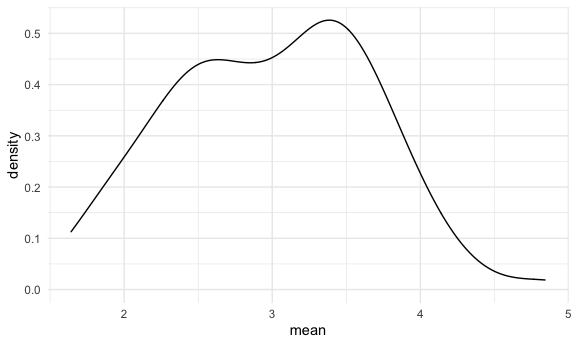
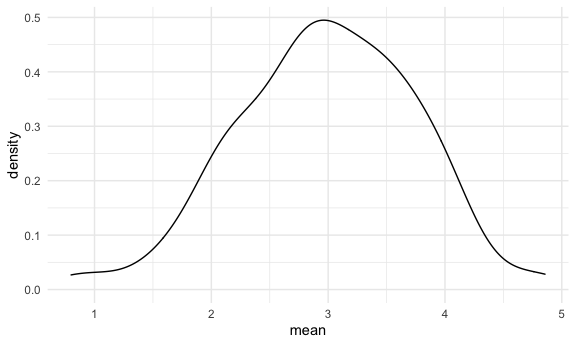
we did simulations

diff --git a/simulation.md b/simulation.md
@@ -32,7 +32,7 @@ sim_mean_sd(30)
     ## # A tibble: 1 x 2
     ##    mean    sd
     ##   <dbl> <dbl>
-    ## 1  2.27  3.81
+    ## 1  3.33  3.70
 
 ## Let’s simulate a lot
 
@@ -53,16 +53,16 @@ bind_rows(output)
     ## # A tibble: 100 x 2
     ##     mean    sd
     ##    <dbl> <dbl>
-    ##  1  2.81  3.73
-    ##  2  2.77  4.37
-    ##  3  3.06  4.00
-    ##  4  3.11  4.38
-    ##  5  2.22  3.57
-    ##  6  2.57  3.61
-    ##  7  2.76  4.53
-    ##  8  3.65  3.62
-    ##  9  3.85  4.09
-    ## 10  3.08  3.88
+    ##  1  3.53  3.18
+    ##  2  3.44  3.84
+    ##  3  3.45  3.53
+    ##  4  1.68  3.69
+    ##  5  3.95  4.22
+    ##  6  3.27  4.34
+    ##  7  2.05  4.05
+    ##  8  3.10  3.72
+    ##  9  3.55  4.11
+    ## 10  3.87  3.79
     ## # … with 90 more rows
 
 Let’s use a `loop function`.
@@ -93,7 +93,7 @@ sim_results %>%
     ## # A tibble: 1 x 2
     ##   avg_sample_mean sd_samp_mean
     ##             <dbl>        <dbl>
-    ## 1            2.99        0.670
+    ## 1            2.98        0.756
 
 ``` r
 sim_results %>% 
@@ -101,3 +101,71 @@ sim_results %>%
 ```
 
 <img src="simulation_files/figure-gfm/unnamed-chunk-5-2.png" width="90%" />
+
+## Let’s try other sample sizes
+
+``` r
+n_list = 
+  list(
+    "n = 30" = 30,
+    "n = 60" = 60,
+    "n = 120" = 120,
+    "n = 240" = 240
+  )
+
+ouput = vector("list", length = 4)
+
+output[[1]] = rerun(100, sim_mean_sd(samp_size = n_list[[1]])) %>% bind_rows()
+
+for (i in 1:4) {
+  output[[i]] = 
+    rerun(100, sim_mean_sd(samp_size = n_list[[i]])) %>% 
+    bind_rows()
+}
+```
+
+``` r
+sim_results = 
+  tibble(
+    sample_size = c(30, 60, 120, 240)
+  ) %>% 
+    mutate(
+      output_lists = map(.x = sample_size, ~ rerun(1000, sim_mean_sd(.x))),
+      estimate_df = map(output_lists, bind_rows)
+    ) %>% 
+    select(-output_lists) %>% 
+    unnest(estimate_df)
+```
+
+Do some dataframe things.
+
+``` r
+sim_results %>% 
+  mutate(
+    sample_size = str_c("n = ", sample_size),
+    sample_size = fct_inorder(sample_size)
+  ) %>% 
+  ggplot(aes(x = sample_size, y = mean))+
+  geom_violin()
+```
+
+<img src="simulation_files/figure-gfm/unnamed-chunk-8-1.png" width="90%" />
+
+``` r
+sim_results %>%
+  group_by(sample_size) %>% 
+  summarize(
+    avg_sample_mean = mean(mean),
+    sd_samp_mean = sd(mean)
+  )
+```
+
+    ## `summarise()` ungrouping output (override with `.groups` argument)
+
+    ## # A tibble: 4 x 3
+    ##   sample_size avg_sample_mean sd_samp_mean
+    ##         <dbl>           <dbl>        <dbl>
+    ## 1          30            2.99        0.714
+    ## 2          60            3.02        0.516
+    ## 3         120            2.99        0.376
+    ## 4         240            3.00        0.262
